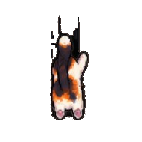
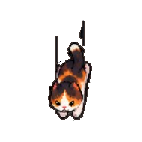
Improve global typing detection and mirror jump-down left frames.
Request Accessibility and Input Monitoring, retry event taps until one works, and replace jump_down_left with flipped jump_down_right frames.

Changed region(s): [[0.338, 0.1127, 0.6479, 0.8451]]

diff --git a/src/assets/cat/manifest.ts b/src/assets/cat/manifest.ts
@@ -15,7 +15,7 @@ export const ANIMATIONS = {
   idle_right: ["idle_right_0.png", "idle_right_1.png", "idle_right_2.png", "idle_right_3.png"],
   jump_down_back: ["jump_down_back_0.png", "jump_down_back_1.png", "jump_down_back_2.png", "jump_down_back_3.png", "jump_down_back_4.png", "jump_down_back_5.png"],
   jump_down_front: ["jump_down_front_0.png", "jump_down_front_1.png", "jump_down_front_2.png", "jump_down_front_3.png", "jump_down_front_4.png", "jump_down_front_5.png", "jump_down_front_6.png", "jump_down_front_7.png"],
-  jump_down_left: ["jump_down_left_0.png", "jump_down_left_1.png", "jump_down_left_2.png", "jump_down_left_3.png", "jump_down_left_4.png", "jump_down_left_5.png", "jump_down_left_6.png"],
+  jump_down_left: ["jump_down_left_0.png", "jump_down_left_1.png", "jump_down_left_2.png", "jump_down_left_3.png", "jump_down_left_4.png", "jump_down_left_5.png", "jump_down_left_6.png", "jump_down_left_7.png"],
   jump_down_right: ["jump_down_right_0.png", "jump_down_right_1.png", "jump_down_right_2.png", "jump_down_right_3.png", "jump_down_right_4.png", "jump_down_right_5.png", "jump_down_right_6.png", "jump_down_right_7.png"],
   jump_up_back: ["jump_up_back_0.png", "jump_up_back_1.png", "jump_up_back_2.png", "jump_up_back_3.png", "jump_up_back_4.png", "jump_up_back_5.png", "jump_up_back_6.png", "jump_up_back_7.png"],
   jump_up_front: ["jump_up_front_0.png", "jump_up_front_1.png", "jump_up_front_2.png", "jump_up_front_3.png", "jump_up_front_4.png", "jump_up_front_5.png", "jump_up_front_6.png", "jump_up_front_7.png"],

diff --git a/src/main.ts b/src/main.ts
@@ -208,7 +208,8 @@ async function boot() {
     if (!ev.payload.keyboard) {
       statusEl.textContent = ev.payload.message;
       statusEl.classList.remove("hidden");
-      setTimeout(() => statusEl.classList.add("hidden"), 8000);
+    } else {
+      statusEl.classList.add("hidden");
     }
   });
 

diff --git a/src-tauri/src/lib.rs b/src-tauri/src/lib.rs
@@ -414,7 +414,50 @@ fn start_mouse_poll(app: AppHandle) {
     });
 }
 
+/// Ask macOS for the TCC grants that gate global key taps.
+///
+/// - ListenOnly taps → Input Monitoring (`CGRequestListenEventAccess`)
+/// - Default (filter) taps → Accessibility / PostEvent (`CGRequestPostEventAccess` + AX prompt)
+#[cfg(target_os = "macos")]
+fn request_global_key_permissions(prompt_ax: bool) {
+    #[link(name = "CoreGraphics", kind = "framework")]
+    extern "C" {
+        fn CGRequestListenEventAccess() -> bool;
+        fn CGRequestPostEventAccess() -> bool;
+    }
+    unsafe {
+        let _ = CGRequestListenEventAccess();
+        let _ = CGRequestPostEventAccess();
+    }
+    if prompt_ax {
+        let _ = ax_trusted_prompting();
+    } else {
+        let _ = ax_trusted();
+    }
+}
+
+#[cfg(target_os = "macos")]
+fn open_typing_privacy_settings() {
+    use std::process::Command;
+    // Best-effort deep links; older macOS ignores unknown URLs.
+    let _ = Command::new("open")
+        .arg("x-apple.systempreferences:com.apple.preference.security?Privacy_Accessibility")
+        .spawn();
+    let _ = Command::new("open")
+        .arg("x-apple.systempreferences:com.apple.preference.security?Privacy_ListenEvent")
+        .spawn();
+}
+
+#[tauri::command]
+fn open_typing_permissions() {
+    #[cfg(target_os = "macos")]
+    open_typing_privacy_settings();
+}
+
 /// Key-activity-only tap. Does not read or convert key characters (avoids rdev/HIToolbox crash).
+///
+/// Listens for keys in *other* apps (not just when Desk Paw is focused). Tries Input
+/// Monitoring (listen-only) first, then Accessibility (default tap).
 #[cfg(target_os = "macos")]
 fn start_key_activity_tap(app: AppHandle) {
     use std::ffi::c_void;
@@ -459,10 +502,10 @@ fn start_key_activity_tap(app: AppHandle) {
     }
 
     const KCG_HID_EVENT_TAP: u32 = 0;
+    const KCG_SESSION_EVENT_TAP: u32 = 1;
     const KCG_HEAD_INSERT: u32 = 0;
-    /// Active tap. Listen-only taps are gated by Input Monitoring on macOS, while
-    /// this one works with the Accessibility grant the app already asks for.
     const KCG_TAP_DEFAULT: u32 = 0;
+    const KCG_TAP_LISTEN_ONLY: u32 = 1;
     const KCG_EVENT_KEY_DOWN: u32 = 10;
     const KCG_EVENT_KEY_UP: u32 = 11;
     const KCG_TAP_DISABLED_BY_TIMEOUT: u32 = 0xFFFF_FFFE;
@@ -484,6 +527,13 @@ fn start_key_activity_tap(app: AppHandle) {
             KCG_EVENT_KEY_DOWN | KCG_EVENT_KEY_UP => {
                 if !KEY_SEEN.swap(true, Ordering::SeqCst) {
                     println!("[desk-paw] first key event seen — typing detection is live");
+                    let _ = ctx.app.emit(
+                        "permission-status",
+                        PermissionStatus {
+                            keyboard: true,
+                            message: "Typing detection is on.".into(),
+                        },
+                    );
                 }
                 let _ = ctx.app.emit("key-activity", ());
             }
@@ -502,63 +552,92 @@ fn start_key_activity_tap(app: AppHandle) {
     }
 
     thread::spawn(move || {
-        // Permission is usually granted *after* first launch; keep waiting for it
-        // rather than needing a restart.
+        let permission_msg = "To type in other apps: System Settings → Privacy & Security → turn ON Desk Paw under Accessibility and Input Monitoring, then quit & reopen Desk Paw.";
         let mut warned = false;
-        // First check prompts, so macOS registers the right process itself.
-        while !(if warned { ax_trusted() } else { ax_trusted_prompting() }) {
+        let mut opened_settings = false;
+
+        // Keep requesting until a tap can be created — user often grants after first launch.
+        let (tap, user) = loop {
+            request_global_key_permissions(!warned);
+
+            let ctx = Box::new(TapCtx {
+                app: app.clone(),
+                tap: AtomicPtr::new(ptr::null_mut()),
+            });
+            let user = Box::into_raw(ctx) as *mut c_void;
+            let mask: u64 = (1 << KCG_EVENT_KEY_DOWN) | (1 << KCG_EVENT_KEY_UP);
+
+            // Prefer session+listenOnly (Input Monitoring). Fall back to default taps
+            // (Accessibility / PostEvent), including the old HID placement.
+            let attempts = [
+                (KCG_SESSION_EVENT_TAP, KCG_TAP_LISTEN_ONLY, "session/listenOnly"),
+                (KCG_SESSION_EVENT_TAP, KCG_TAP_DEFAULT, "session/default"),
+                (KCG_HID_EVENT_TAP, KCG_TAP_DEFAULT, "hid/default"),
+                (KCG_HID_EVENT_TAP, KCG_TAP_LISTEN_ONLY, "hid/listenOnly"),
+            ];
+
+            let mut created: CFMachPortRef = ptr::null_mut();
+            let mut label = "";
+            unsafe {
+                for (location, options, name) in attempts {
+                    let tap = CGEventTapCreate(
+                        location,
+                        KCG_HEAD_INSERT,
+                        options,
+                        mask,
+                        Some(callback),
+                        user,
+                    );
+                    if !tap.is_null() {
+                        created = tap;
+                        label = name;
+                        break;
+                    }
+                }
+            }
+
+            if !created.is_null() {
+                println!("[desk-paw] key tap created ({label}); waiting for key events");
+                break (created, user);
+            }
+
+            unsafe {
+                let _ = Box::from_raw(user as *mut TapCtx);
+            }
+
             if !warned {
                 warned = true;
                 println!(
-                    "[desk-paw] AXIsProcessTrusted() = false — waiting for Accessibility. \
-                     Grant it to whichever app owns this process (in `tauri dev` that is \
-                     usually your terminal/editor, not Desk Paw)."
+                    "[desk-paw] could not create key tap — need Accessibility and/or Input Monitoring"
                 );
                 let _ = app.emit(
                     "permission-status",
                     PermissionStatus {
                         keyboard: false,
-                        message: "Enable Accessibility for Desk Paw to detect typing in other apps (System Settings → Privacy & Security → Accessibility). Local mouse/click still works.".into(),
+                        message: permission_msg.into(),
                     },
                 );
+            }
+            if !opened_settings {
+                opened_settings = true;
+                open_typing_privacy_settings();
             }
             thread::sleep(Duration::from_secs(3));
-        }
-
-        let ctx = Box::new(TapCtx {
-            app: app.clone(),
-            tap: AtomicPtr::new(ptr::null_mut()),
-        });
-        let user = Box::into_raw(ctx) as *mut c_void;
-        let mask: u64 = (1 << KCG_EVENT_KEY_DOWN) | (1 << KCG_EVENT_KEY_UP);
+        };
 
         unsafe {
-            let tap = CGEventTapCreate(
-                KCG_HID_EVENT_TAP,
-                KCG_HEAD_INSERT,
-                KCG_TAP_DEFAULT,
-                mask,
-                Some(callback),
-                user,
-            );
-            if tap.is_null() {
-                let _ = app.emit(
-                    "permission-status",
-                    PermissionStatus {
-                        keyboard: false,
-                        message: "Could not create keyboard event tap. Grant Accessibility (and Input Monitoring if listed), then restart.".into(),
-                    },
-                );
-                let _ = Box::from_raw(user as *mut TapCtx);
-                return;
-            }
             (*(user as *mut TapCtx)).tap.store(tap, Ordering::SeqCst);
-
-            println!("[desk-paw] key tap created; waiting for key events");
             let source = CFMachPortCreateRunLoopSource(ptr::null(), tap, 0);
             CFRunLoopAddSource(CFRunLoopGetCurrent(), source, kCFRunLoopCommonModes);
             CGEventTapEnable(tap, true);
             println!("key-activity tap active");
+            let _ = app.emit(
+                "permission-status",
+                PermissionStatus {
+                    keyboard: true,
+                    message: "Waiting for first key in another app…".into(),
+                },
+            );
             CFRunLoopRun();
         }
     });
@@ -580,7 +659,8 @@ pub fn run() {
             set_interactive_locked,
             set_walker_mode,
             set_cat_size,
-            reset_position
+            reset_position,
+            open_typing_permissions
         ])
         .setup(|app| {
             #[cfg(target_os = "macos")]
